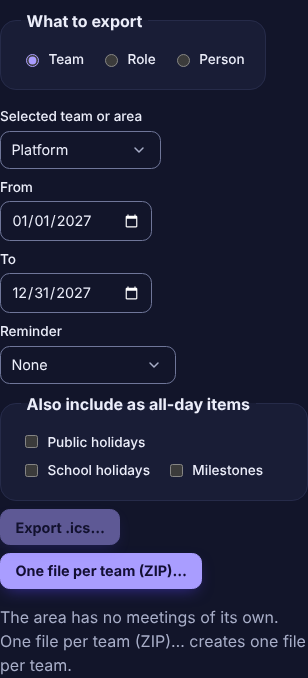
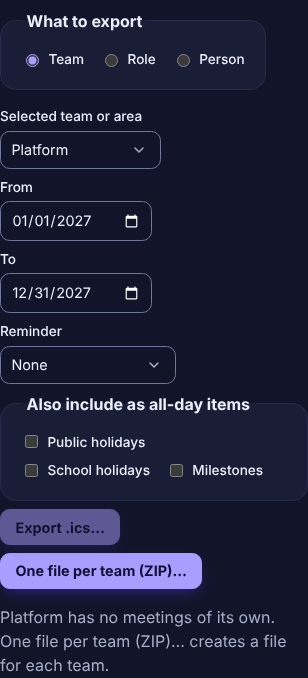
Apply review findings for the export selection (#280)
A remembered team export restores only the scope; the unit follows the
sidebar. The help button sits outside the live region, the area hint
names the area, and the German picker label matches its siblings. Tests
cover the fallback to the team and switching units after a team export.

Changed region(s): [[0.0, 0.8982, 0.9935, 0.9602], [0.0, 0.9602, 0.3506, 1.0]]

diff --git a/src/ui/views/ExchangeView.svelte b/src/ui/views/ExchangeView.svelte
@@ -34,7 +34,6 @@
     exportRequest,
     loadExportChoice,
     saveExportChoice,
-    type ExportChoice,
     type ExportKind,
   } from '../state/exportScope';
   import { activeTeamId, localToday, workspace } from '../state/workspace';
@@ -84,10 +83,13 @@
 
   // ---------- export ----------
 
-  type ScopeKind = ExportKind;
-  const scopeKinds: ScopeKind[] = ['team', 'role', 'person'];
-  let kind = $state<ScopeKind>('team');
-  let pickedId = $state<Record<ScopeKind, string | null>>({ team: null, role: null, person: null });
+  const scopeKinds: ExportKind[] = ['team', 'role', 'person'];
+  let kind = $state<ExportKind>('team');
+  let pickedId = $state<Record<ExportKind, string | null>>({
+    team: null,
+    role: null,
+    person: null,
+  });
   let fromDraft = $state<string | null>(null);
   let toDraft = $state<string | null>(null);
   let reminder = $state('');
@@ -97,19 +99,13 @@
   const reminders = [5, 10, 15, 30];
 
   // From "Add to calendar" in Meetings & cadence: the person exported last if they attend this
-  // team's meetings, otherwise the whole team. Opened any other way: what was exported last.
+  // team's meetings, otherwise the whole team. Opened any other way: what was exported last, but
+  // for a team the one selected in the sidebar.
   {
     const request = get(exportRequest);
     exportRequest.set(null);
     const current = get(workspace);
     const last = loadExportChoice(current.id);
-    const exists = (c: ExportChoice) =>
-      (c.kind === 'team'
-        ? [...current.teams, ...current.areas]
-        : c.kind === 'role'
-          ? current.roles
-          : current.people
-      ).some((x) => x.id === c.id);
     if (request) {
       if (last?.kind === 'person' && attendsUnitMeetings(current, request.teamId, last.id)) {
         kind = 'person';
@@ -118,7 +114,12 @@
         kind = 'team';
         pickedId.team = request.teamId;
       }
-    } else if (last && exists(last)) {
+    } else if (last?.kind === 'team') {
+      kind = 'team';
+    } else if (
+      last &&
+      current[last.kind === 'role' ? 'roles' : 'people'].some((x) => x.id === last.id)
+    ) {
       kind = last.kind;
       pickedId[last.kind] = last.id;
     }
@@ -390,11 +391,16 @@
     {/if}
     {#if exported || sharedAll}
       <span>{$t('exchange.exported.next')}</span>
-      <button type="button" onclick={() => onOpenHelp?.()}>{$t('exchange.exported.help')}</button>
     {:else if exportEmpty}
       {$t('exchange.export.empty')}
     {/if}
   </div>
+  {#if exported || sharedAll}
+    <!-- Outside the live region: only the message is announced. -->
+    <button type="button" class="to-help" onclick={() => onOpenHelp?.()}
+      >{$t('exchange.exported.help')}</button
+    >
+  {/if}
   <div role="alert" class="error">
     {#if problem}{$t(problem.key, { path: problem.path ?? '' })}{/if}
   </div>
@@ -538,6 +544,7 @@
       {#if noMeetings}
         <p class="empty" id="{uid}-empty-hint">
           {$t(areaEmpty ? 'exchange.export.areaEmpty' : 'exchange.export.empty', {
+            name: chosen?.name ?? '',
             zip: $t('exchange.zip.button.team'),
           })}
         </p>
@@ -783,6 +790,9 @@
   button:disabled {
     cursor: not-allowed;
     opacity: 0.6;
+  }
+  .to-help {
+    margin-top: 0.5rem;
   }
   button.primary {
     background: var(--accent);

diff --git a/tests/e2e/exchange.spec.ts b/tests/e2e/exchange.spec.ts
@@ -1,7 +1,14 @@
 import AxeBuilder from '@axe-core/playwright';
 import { readFileSync } from 'node:fs';
 import { expect, test, type Page } from '@playwright/test';
-import { openExample, showView, openWorkspaceFile, useFileFallback, setLanguage } from './helpers';
+import {
+  openExample,
+  pickUnit,
+  showView,
+  openWorkspaceFile,
+  useFileFallback,
+  setLanguage,
+} from './helpers';
 
 test.use({ locale: 'en-US' });
 test.beforeEach(async ({ page }) => {
@@ -293,6 +300,31 @@ test('"Add to calendar" opens the export for this team, then for the person expo
   await page.getByRole('tab', { name: 'Meetings & cadence', exact: true }).click();
   await page.getByRole('button', { name: 'Add to calendar…' }).click();
   await expect(panel(page).getByRole('radio', { name: 'Team', exact: true })).toBeChecked();
+});
+
+test('"Add to calendar" falls back to the team when the remembered person is not in it', async ({
+  page,
+}) => {
+  await openExchange(page);
+  await panel(page).getByRole('radio', { name: 'Person', exact: true }).check();
+  await panel(page).getByLabel('Selected person').selectOption({ label: 'Sam' });
+  await exportText(page);
+  await pickUnit(page, 'Team Gamma');
+  await page.getByRole('tab', { name: 'Meetings & cadence', exact: true }).click();
+  await page.getByRole('button', { name: 'Add to calendar…' }).click();
+  await expect(panel(page).getByRole('radio', { name: 'Team', exact: true })).toBeChecked();
+  await expect(panel(page).getByLabel('Selected team')).toHaveValue('team-gamma');
+});
+
+test('after a team export, Import / Export opens on the unit selected now', async ({ page }) => {
+  await openExchange(page);
+  await panel(page).getByLabel('Selected team').selectOption({ label: 'Team Alpha' });
+  await exportText(page);
+  await pickUnit(page, 'Team Gamma');
+  await showView(page, 'Calendar');
+  await showView(page, 'Import / Export');
+  await expect(panel(page).getByRole('radio', { name: 'Team', exact: true })).toBeChecked();
+  await expect(panel(page).getByLabel('Selected team')).toHaveValue('team-gamma');
 });
 
 test('Import / Export opens on the last export, which points to the manual', async ({ page }) => {

diff --git a/tests/e2e/area-meetings.spec.ts b/tests/e2e/area-meetings.spec.ts
@@ -94,7 +94,9 @@ test('an area without own meetings leads with one file per team', async ({ page 
   await expect(zip).toBeEnabled();
   await expect(zip).toHaveClass(/primary/);
   await expect(
-    panel.getByText('The area has no meetings of its own. One file per team (ZIP)… creates'),
+    panel.getByText(
+      'Platform has no meetings of its own. One file per team (ZIP)… creates a file for each team.',
+    ),
   ).toBeVisible();
   // A team with meetings leads with its own file again.
   await panel.getByLabel('Selected team or area').selectOption({ label: 'Team Alpha' });
